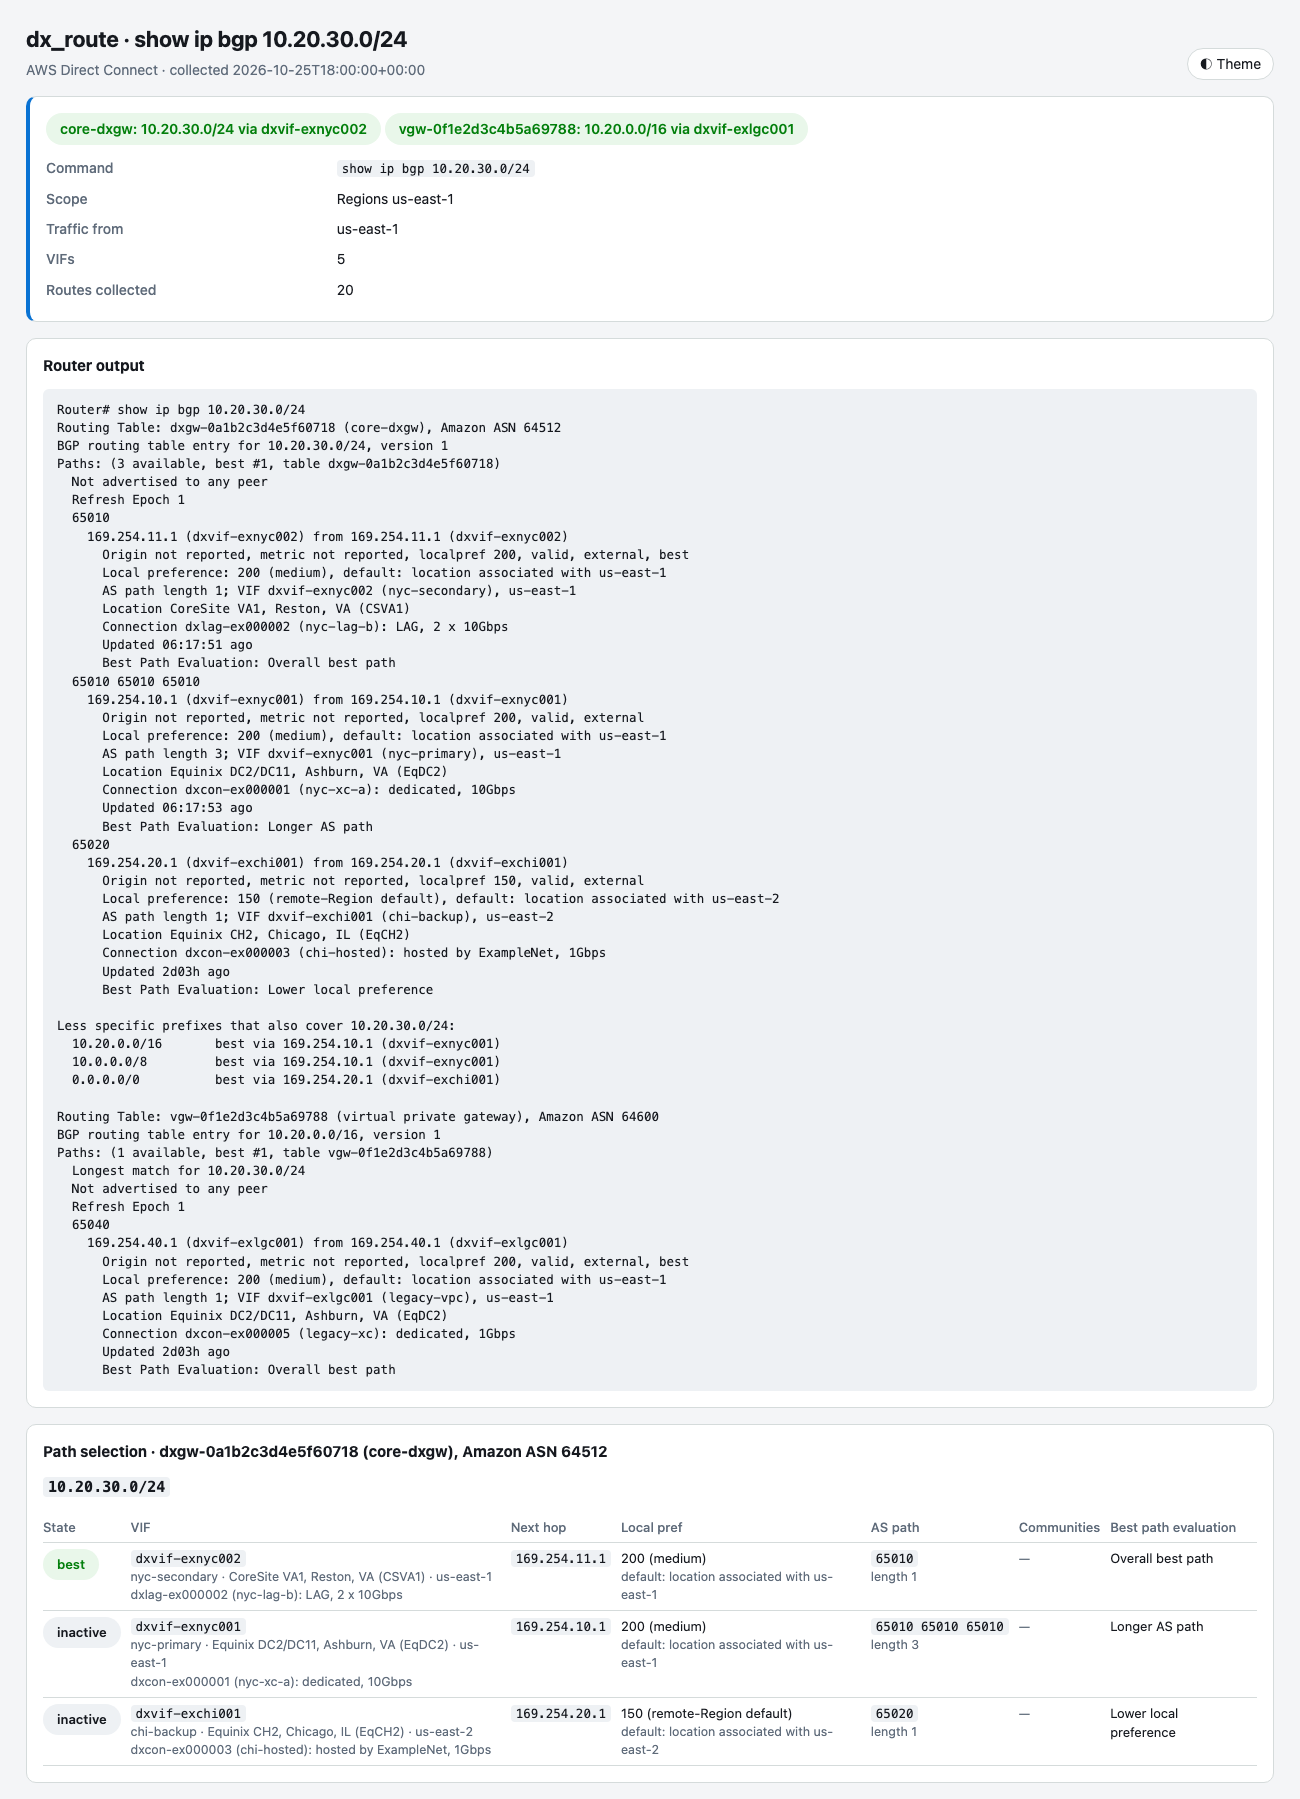
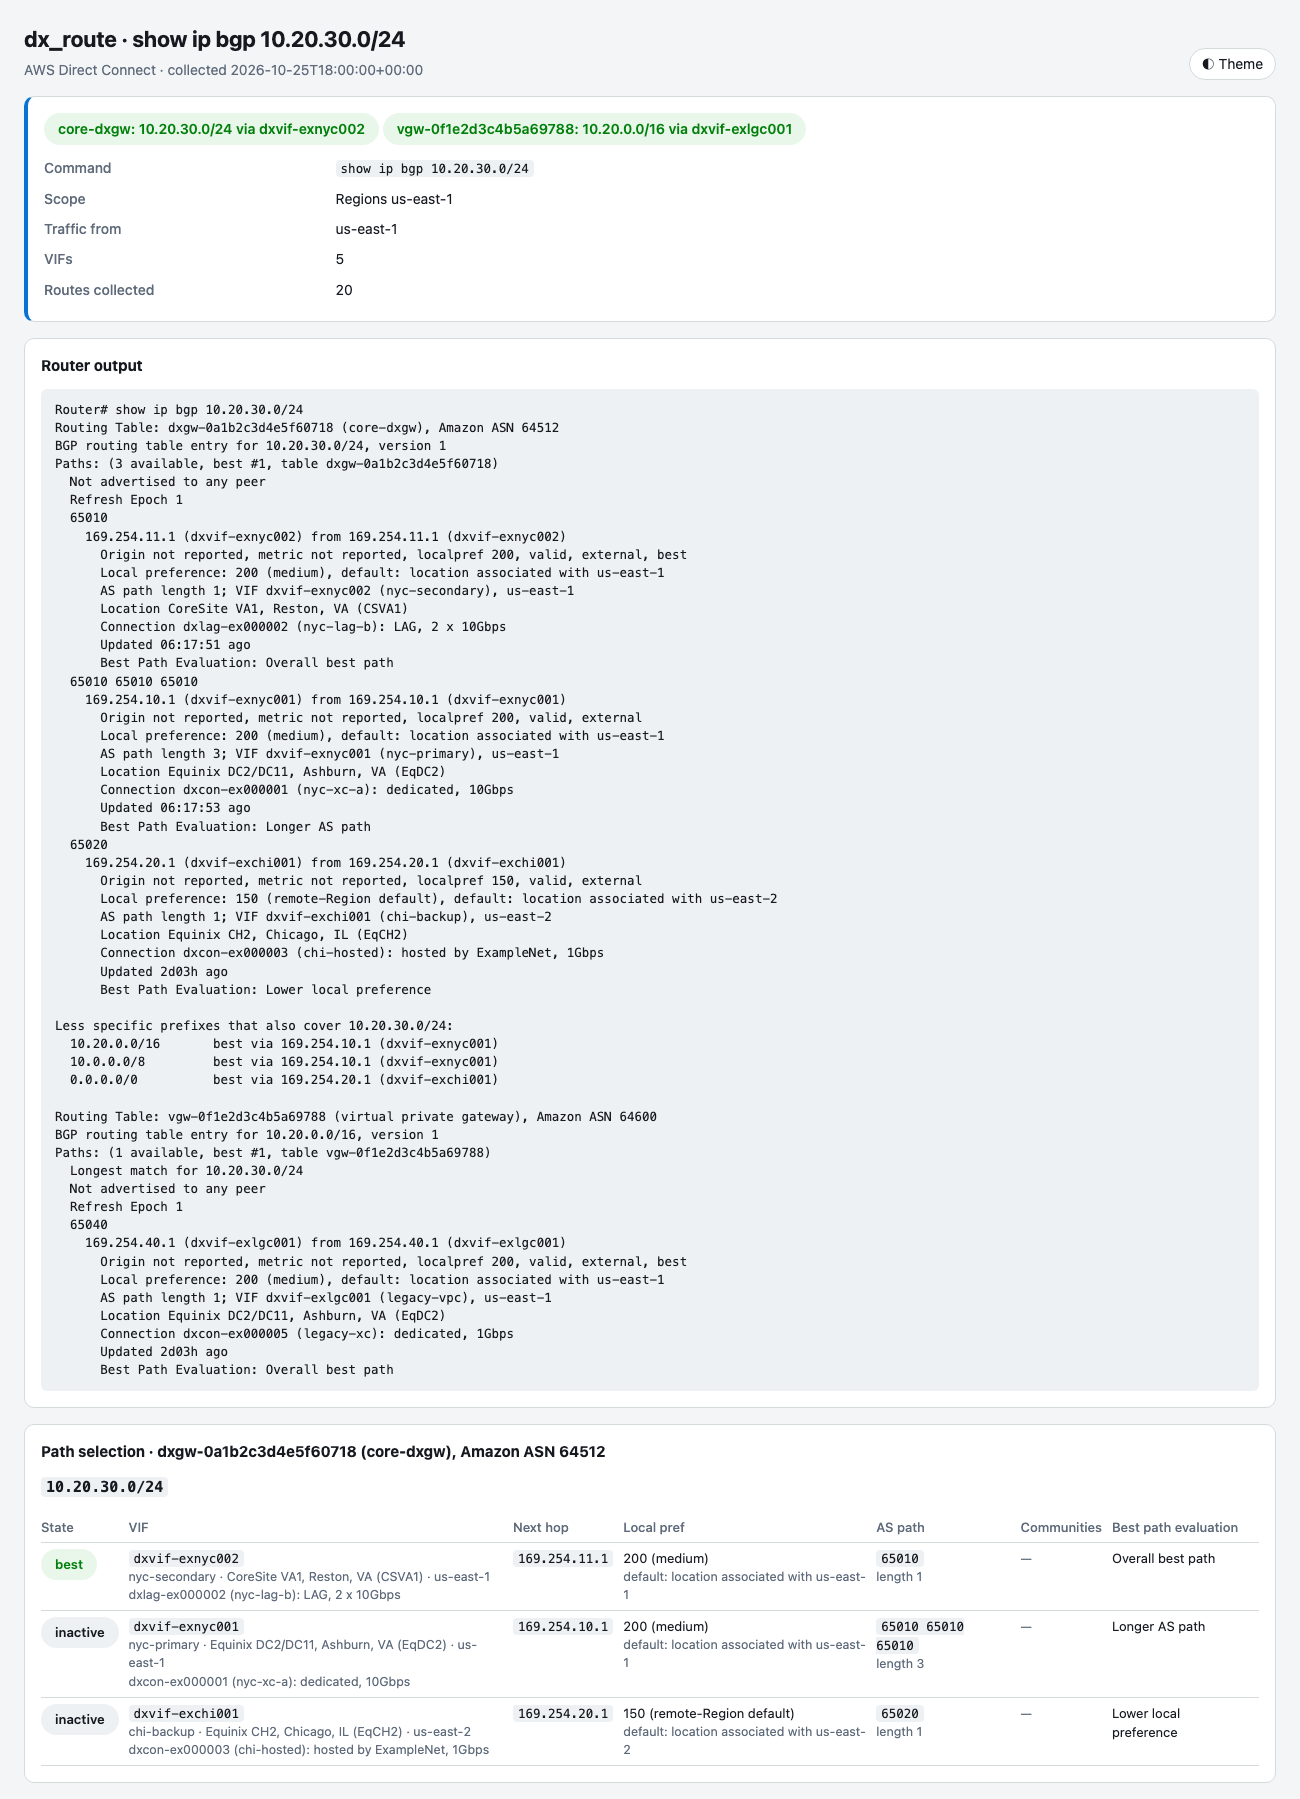
dx_route: widen the HTML report so tables aren't cut off
Drop the 1280px page cap so the report uses the full window width, and
let AS paths wrap in the path-selection table instead of overflowing.

diff --git a/tools/dx_route/dr_theme.py b/tools/dx_route/dr_theme.py
@@ -20,7 +20,7 @@ CSS = """
 @media print{:root,:root[data-theme]{LIGHT}.themebtn{display:none}}
 *{box-sizing:border-box}
 body{margin:0;background:var(--bg);color:var(--fg);font:14px/1.45 -apple-system,BlinkMacSystemFont,"Segoe UI",Roboto,Helvetica,Arial,sans-serif}
-main{max-width:1280px;margin:0 auto;padding:24px 16px 64px}
+main{max-width:none;margin:0 auto;padding:24px 24px 64px}
 h1{font-size:22px;margin:0 0 4px}h2{font-size:19px;margin:0}h3{font-size:15px;margin:0 0 12px}
 h5{font-size:11px;text-transform:uppercase;letter-spacing:.06em;color:var(--muted);margin:12px 0 6px}
 code{font:12.5px ui-monospace,SFMono-Regular,Menlo,Consolas,monospace;background:var(--code);padding:1px 5px;border-radius:4px;word-break:break-all}
@@ -62,4 +62,5 @@ details.raw pre{max-height:480px;overflow:auto;background:var(--code);padding:12
 footer{color:var(--muted);font-size:12px;margin-top:24px}
 pre.term{margin:0;overflow:auto;background:var(--code);padding:12px 14px;border-radius:6px;font:12.5px/1.45 ui-monospace,SFMono-Regular,Menlo,Consolas,monospace;white-space:pre}
 table.grid code{white-space:nowrap;word-break:normal}
+table.grid code.wrap{white-space:normal}
 """.replace("LIGHT", _LIGHT)

diff --git a/tools/dx_route/dr_export.py b/tools/dx_route/dr_export.py
@@ -64,7 +64,7 @@ def selection_card(bundle: dict, tables: dict, key: str, query) -> str:
         lp = "n/a (public VIF)" if p["type"] == core.PUBLIC else \
             f"{p['local_pref']} ({core.LP_NAMES.get(p['local_pref'], '?')})<div class='td muted'>{_e(p['local_pref_source'])}</div>"
         rows.append([_state(p), _vif_cell(p), _code(p["next_hop"]), lp,
-                     f"{_code(p['as_path_text'] or '(empty)')}<div class='td muted'>length {p['as_path_len']}</div>",
+                     f"<code class='wrap'>{_e(p['as_path_text'] or '(empty)')}</code><div class='td muted'>length {p['as_path_len']}</div>",
                      " ".join(_code(c) for c in p["communities"]) or '<span class="nm">—</span>',
                      _e(p["evaluation"])])
     title = f"{prefix}" + (f" (longest match for {query})" if str(query) != prefix else "")
